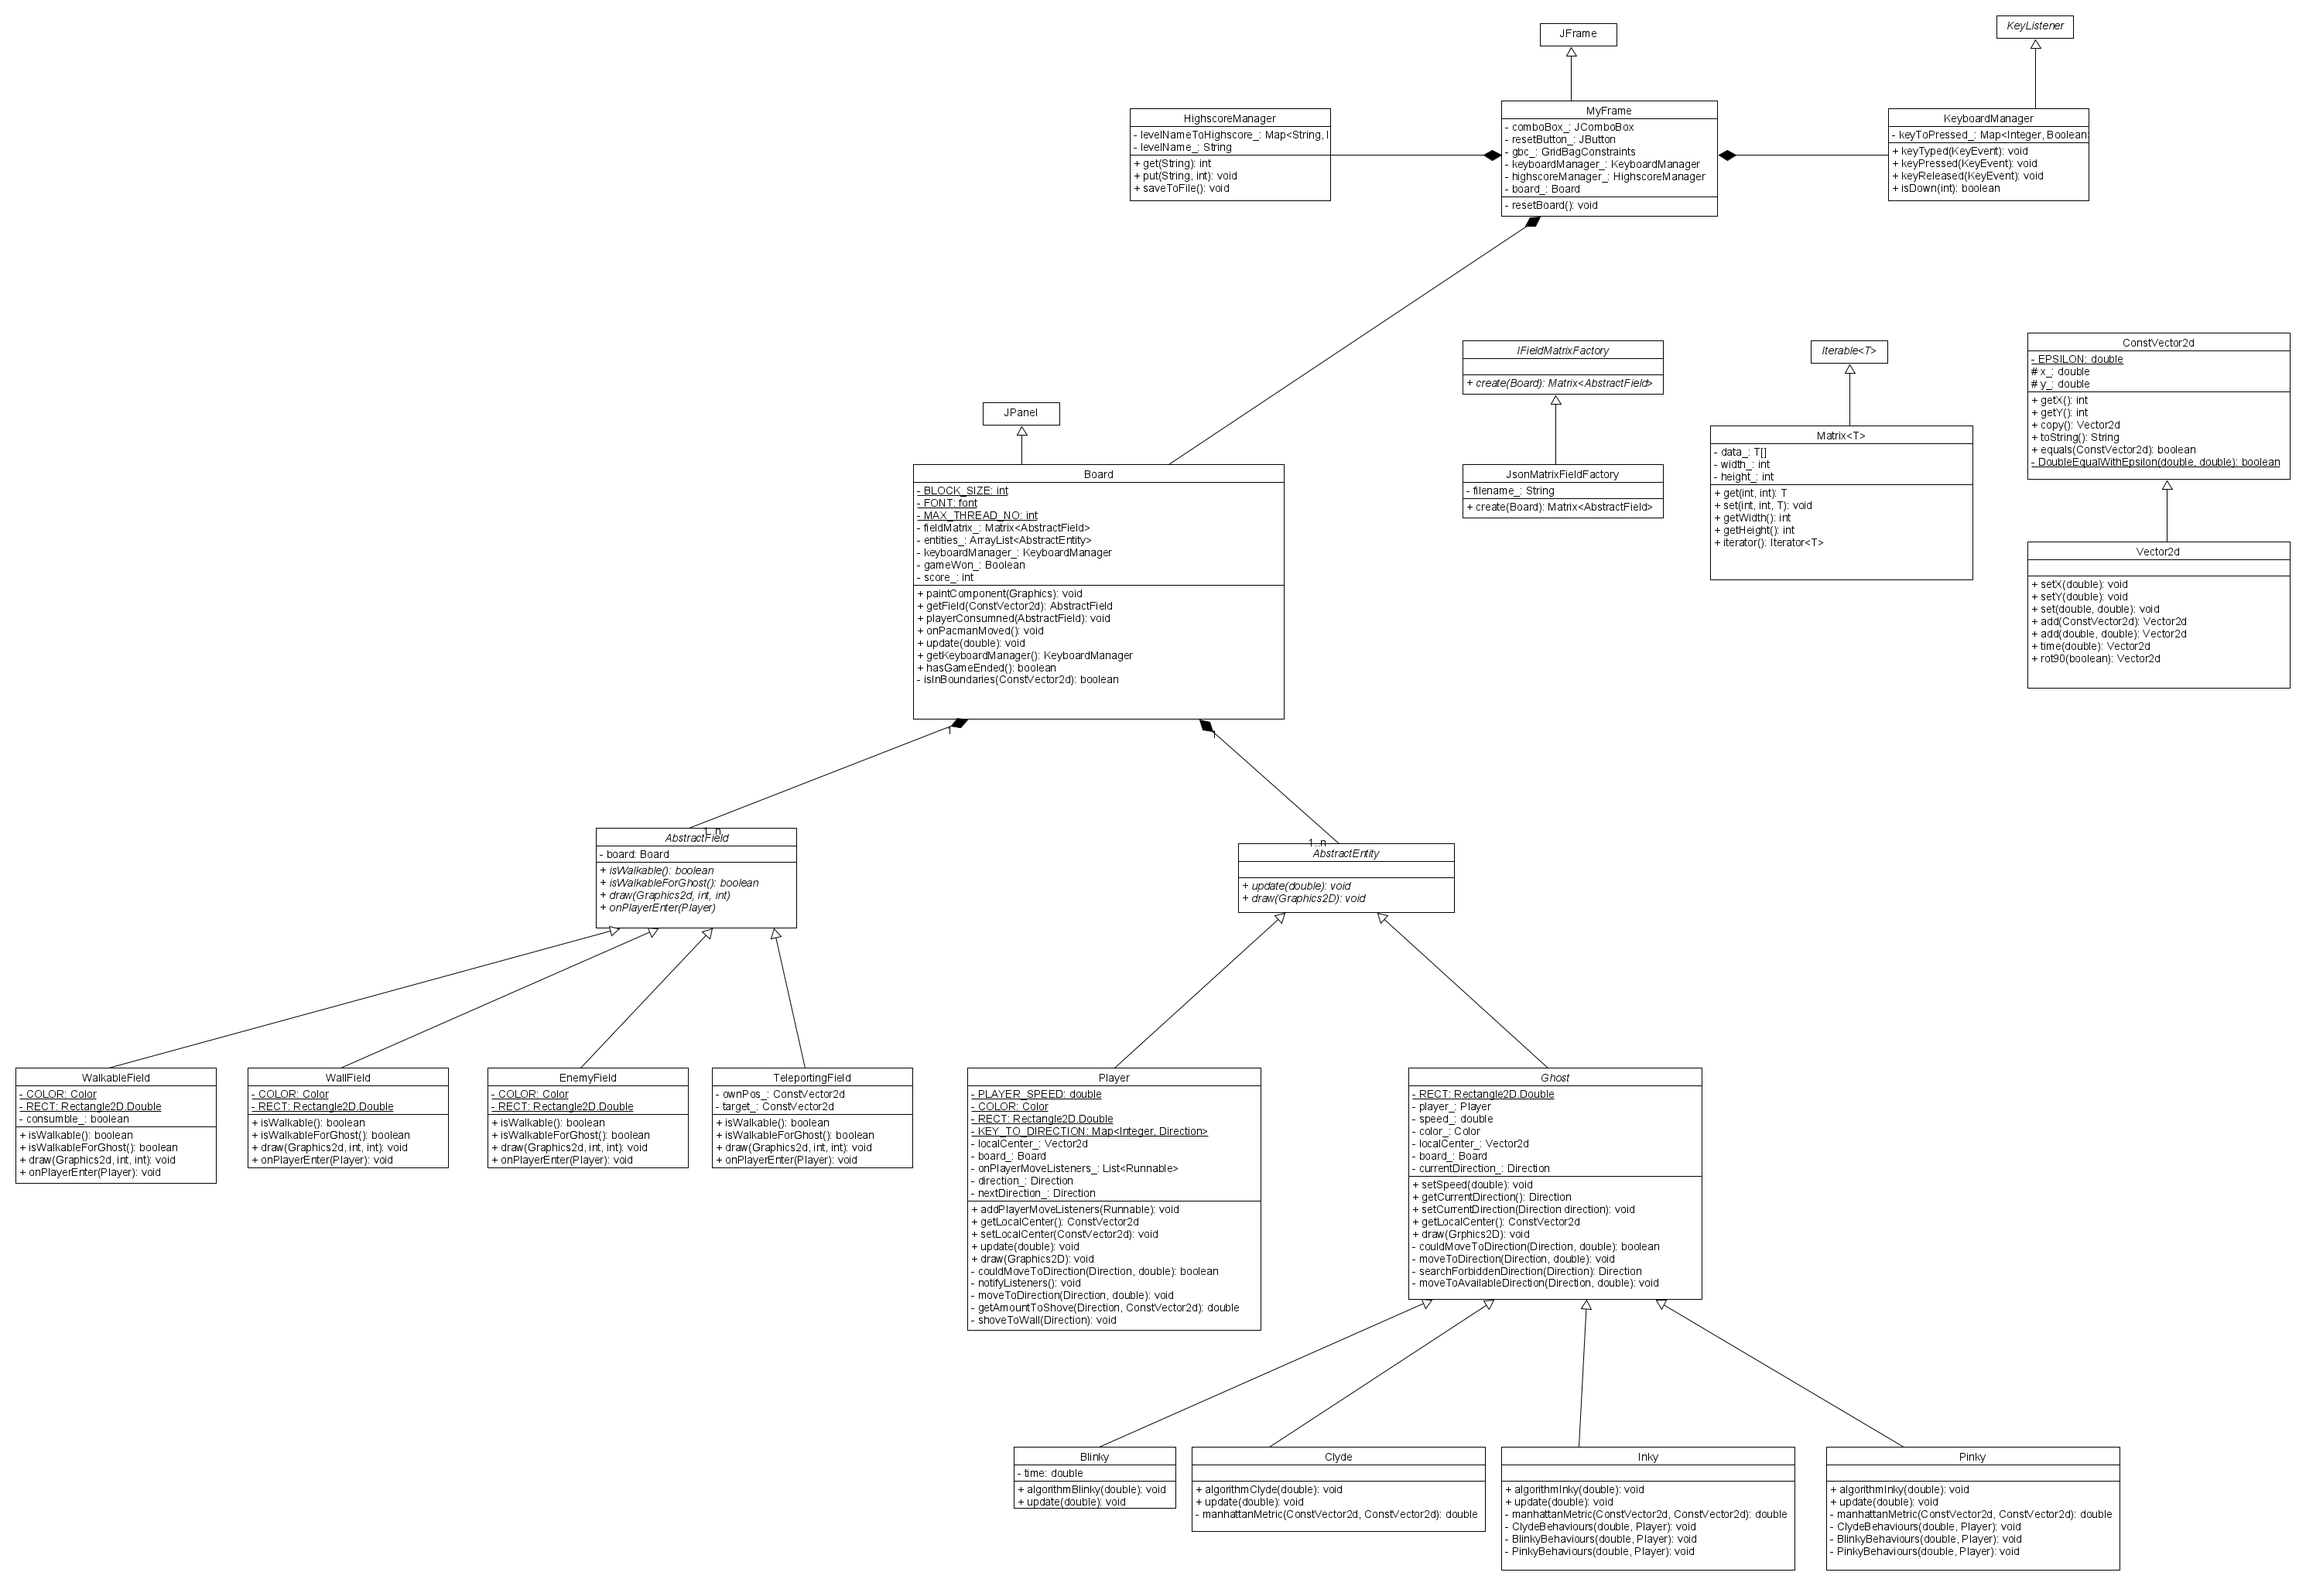
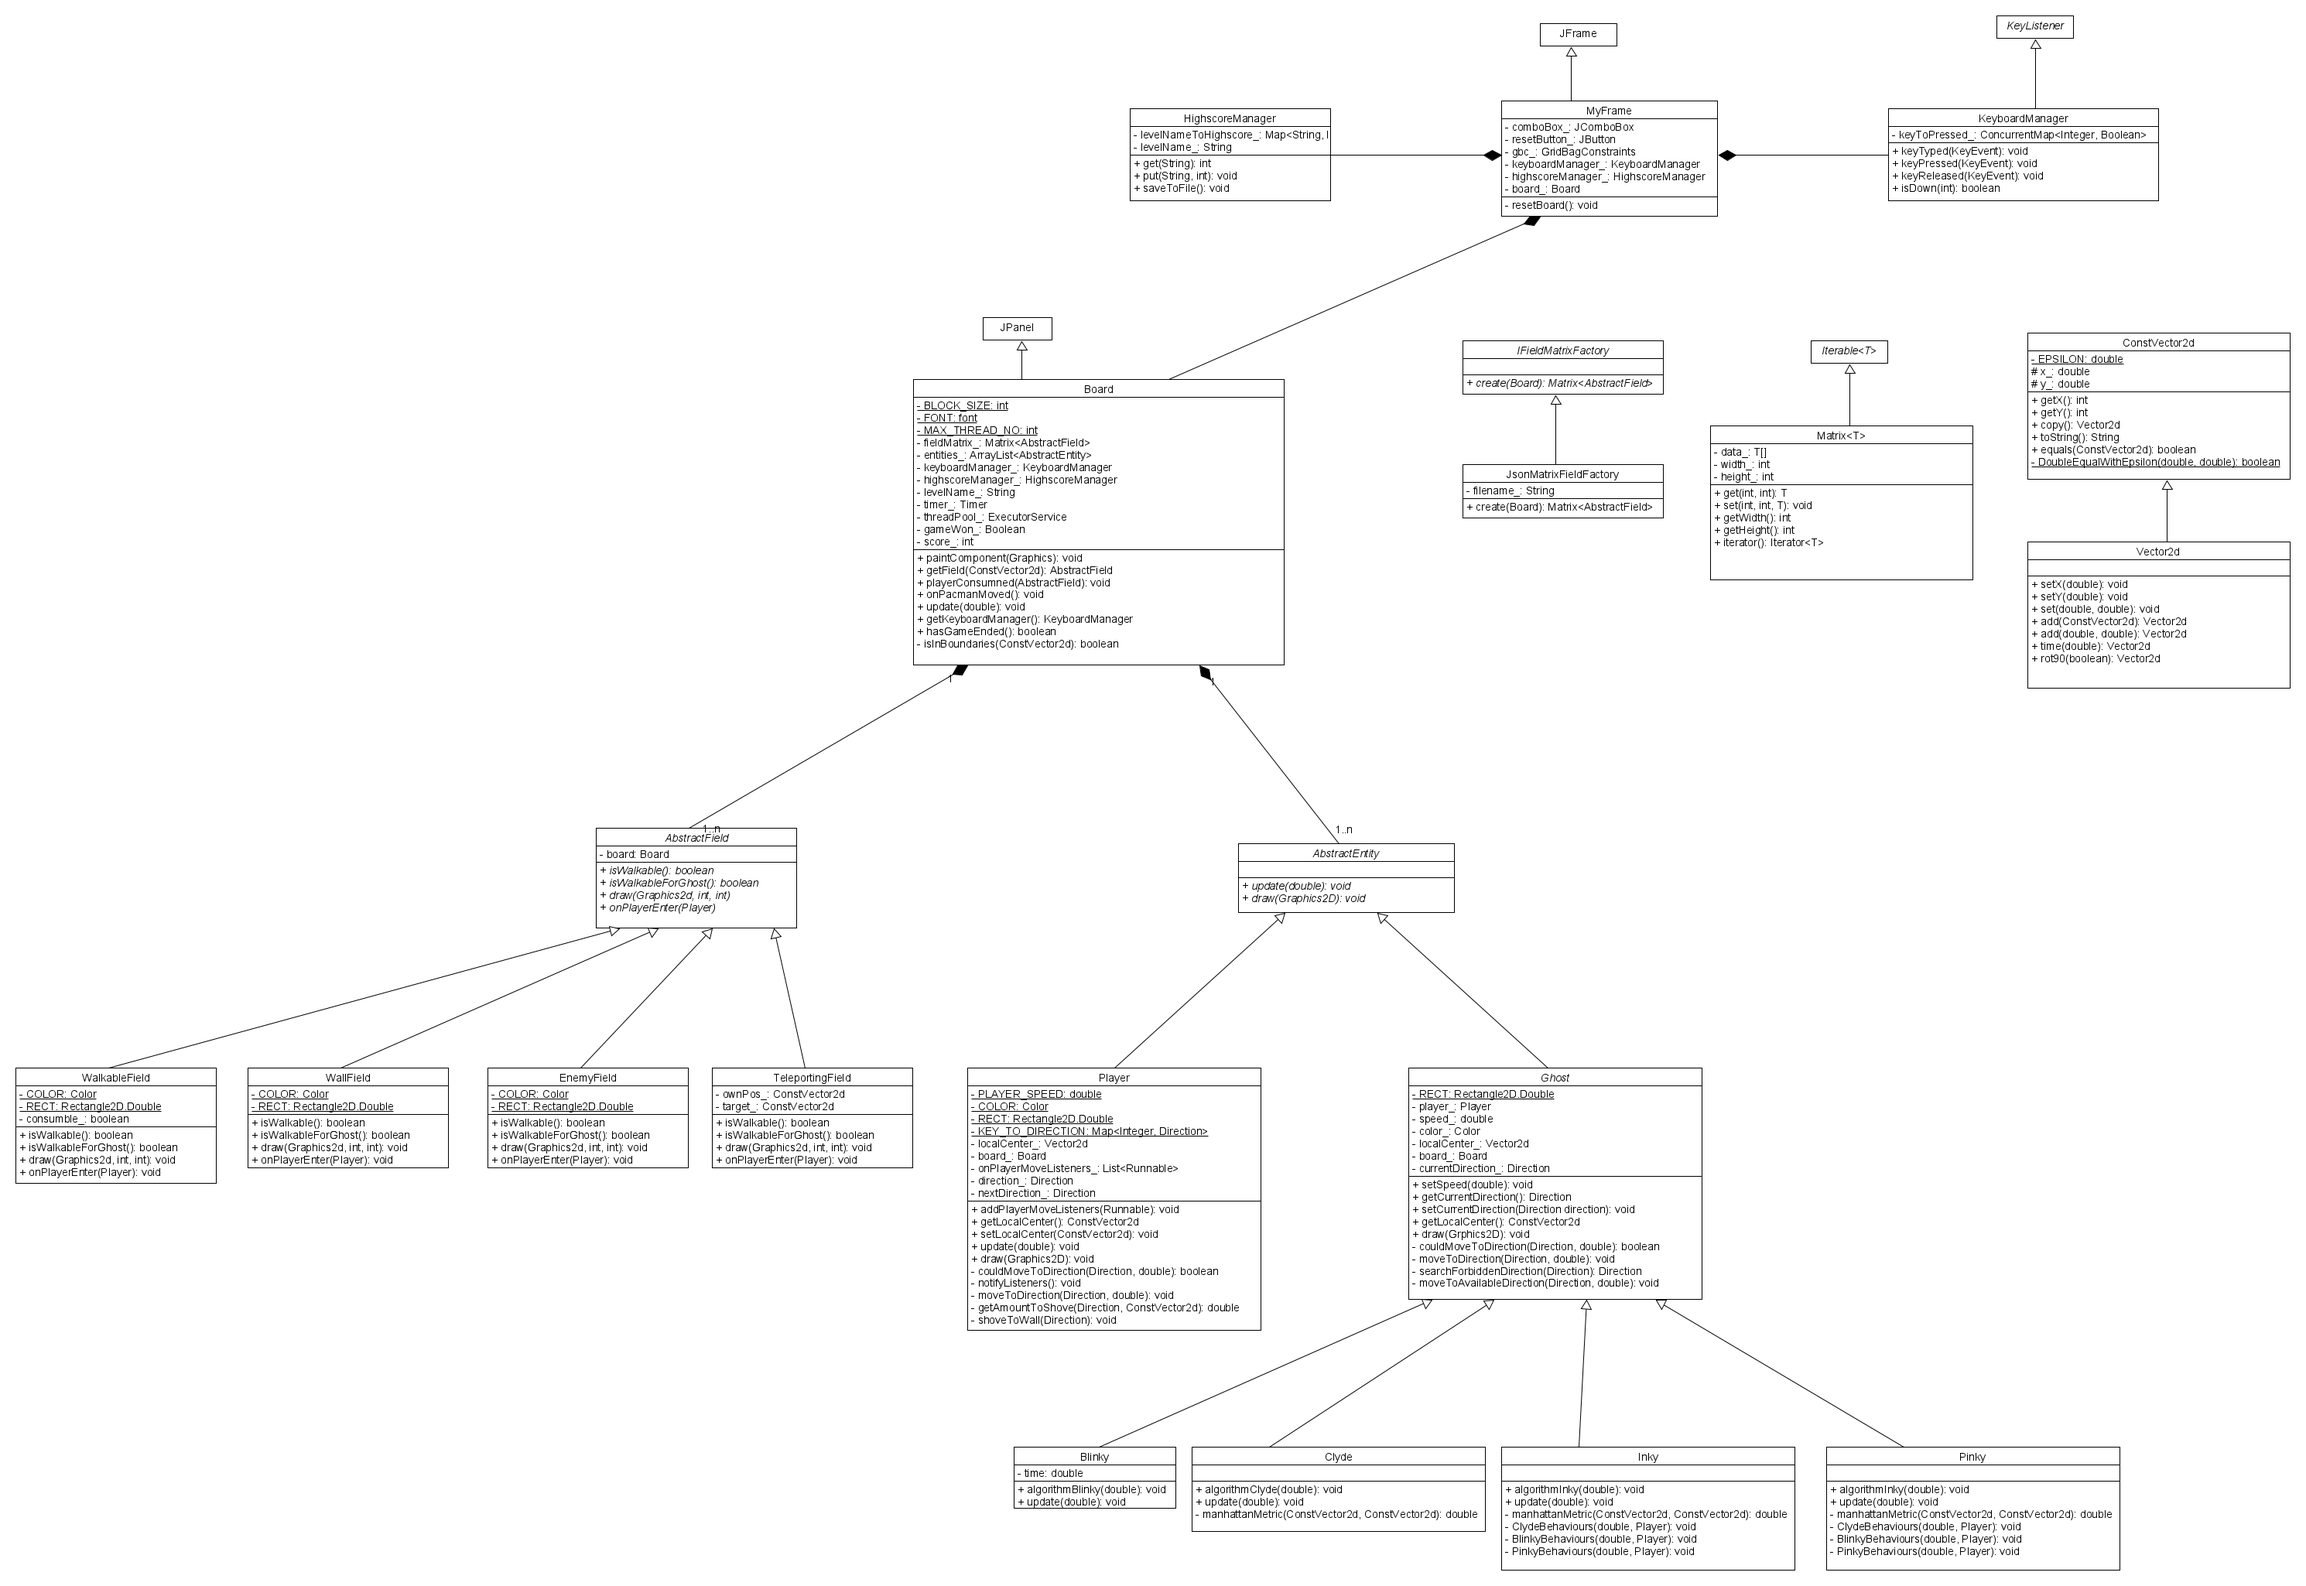
quick fix

Changed region(s): [[0.4057, 0.2498, 0.4993, 0.4371], [0.8426, 0.0624, 0.9362, 0.0937]]

diff --git a/src/com/company/KeyboardManager.java b/src/com/company/KeyboardManager.java
@@ -1,5 +1,7 @@
 package com.company;
 
+import com.sun.org.apache.xpath.internal.operations.Bool;
+
 import javax.swing.*;
 import java.awt.event.ActionEvent;
 import java.awt.event.ActionListener;
@@ -7,15 +9,17 @@ import java.awt.event.KeyEvent;
 import java.awt.event.KeyListener;
 import java.util.HashMap;
 import java.util.Map;
+import java.util.concurrent.ConcurrentHashMap;
+import java.util.concurrent.ConcurrentMap;
 
 /**
  * Object for checking state of a key in a frame.
  */
 public class KeyboardManager implements KeyListener {
-    private final Map<Integer, Boolean> keyToPressed_;
+    private final ConcurrentMap<Integer, Boolean> keyToPressed_;
 
     public KeyboardManager() {
-        keyToPressed_ = new HashMap<Integer, Boolean>();
+        keyToPressed_ = new ConcurrentHashMap<Integer, Boolean>();
 
         keyToPressed_.put(KeyEvent.VK_UP, false);
         keyToPressed_.put(KeyEvent.VK_DOWN, false);
